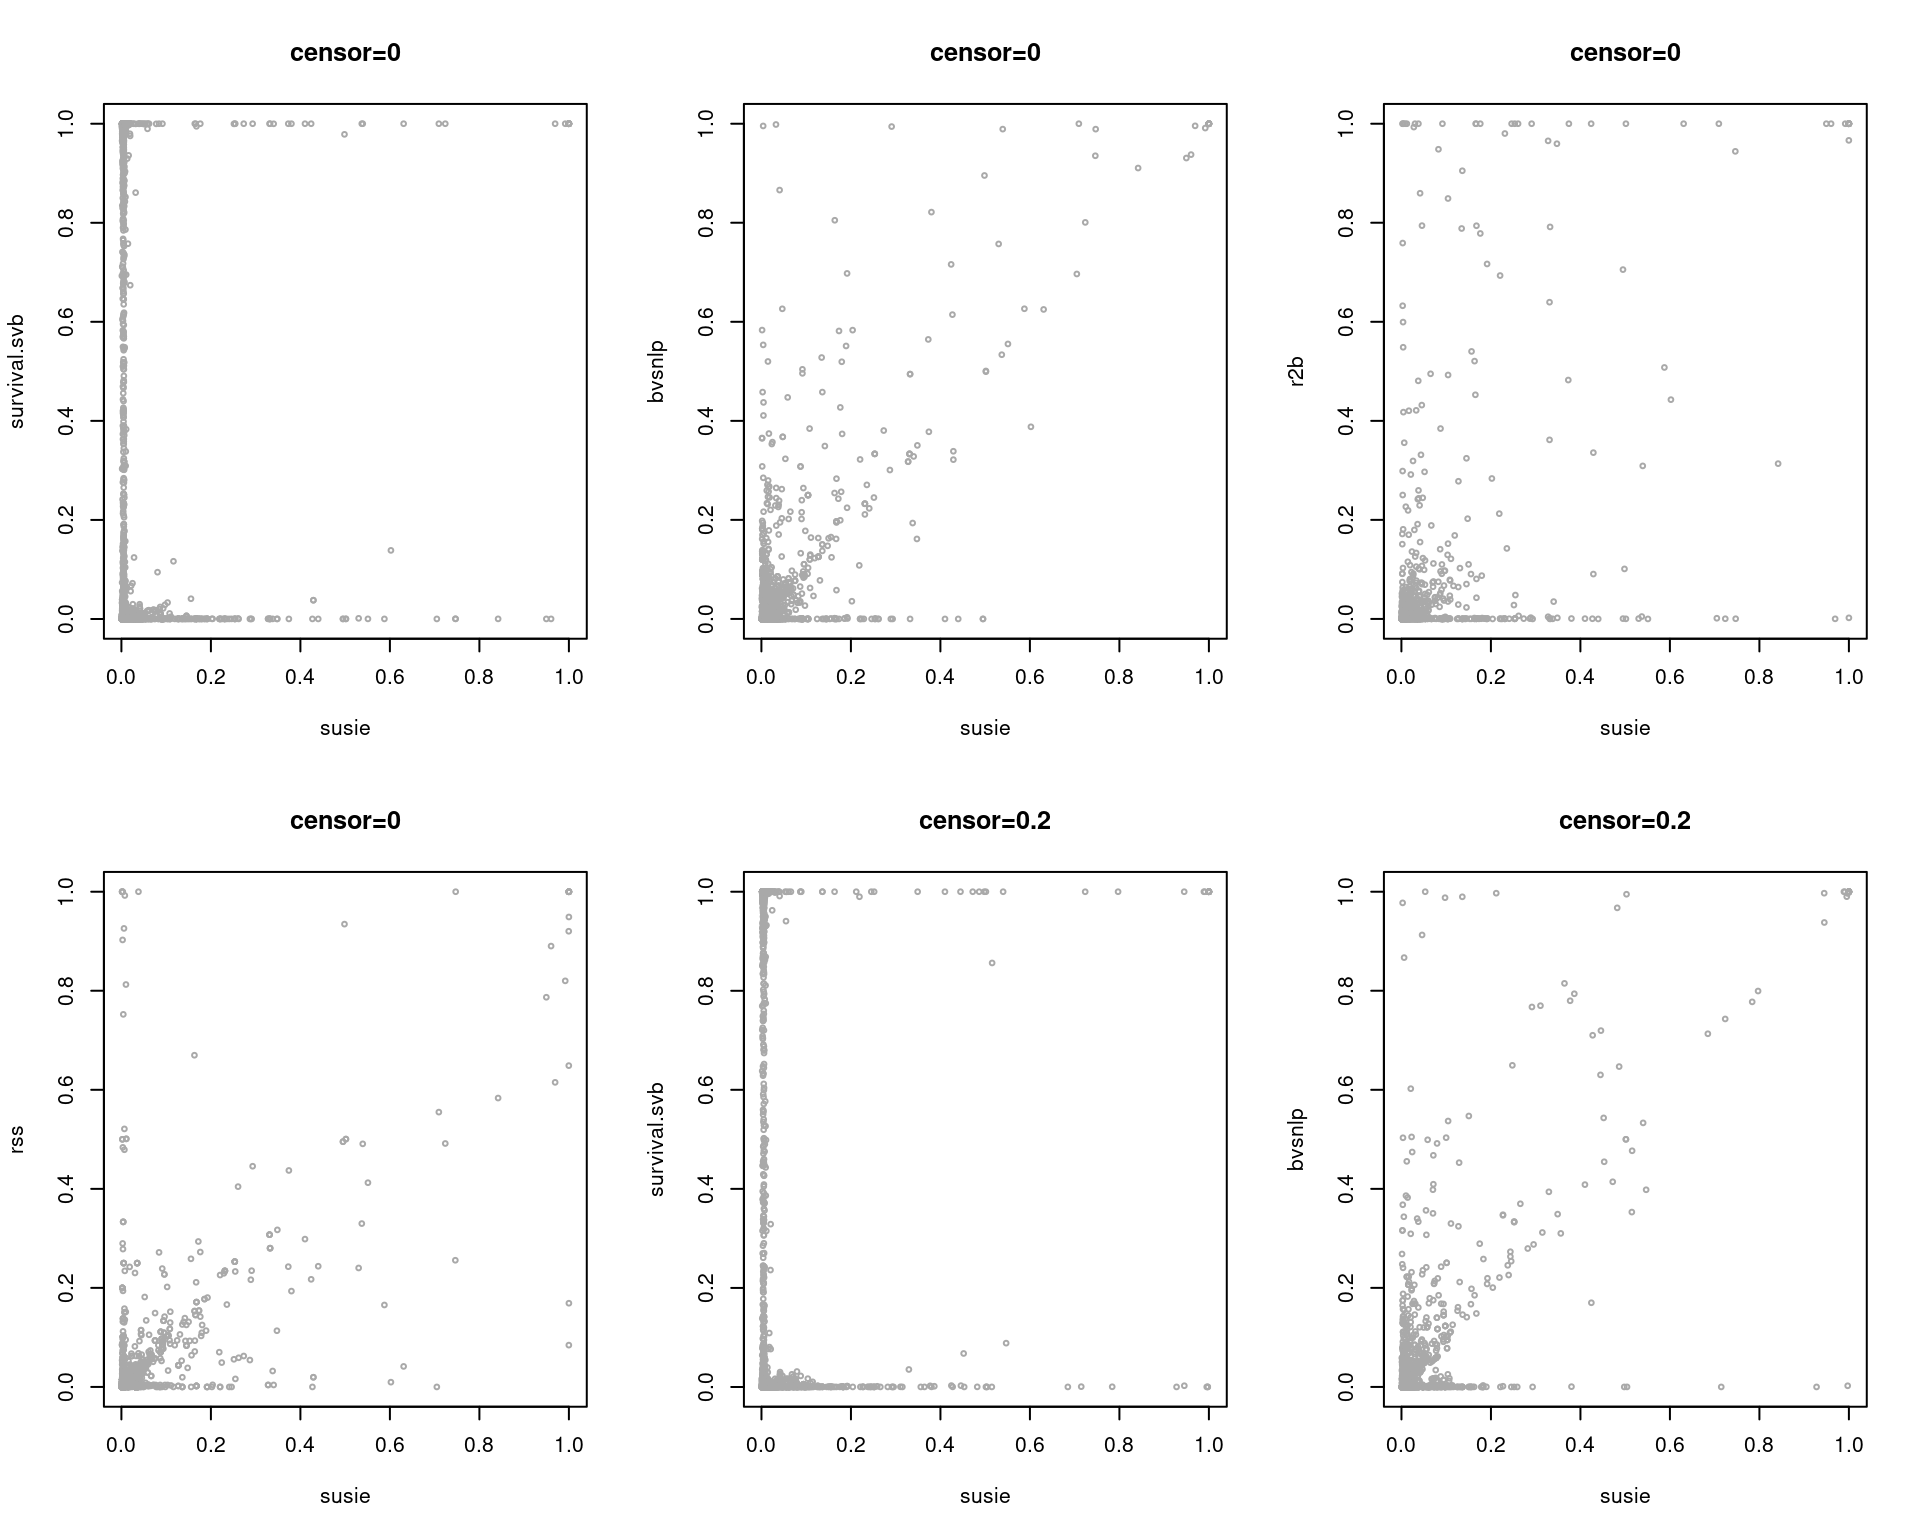
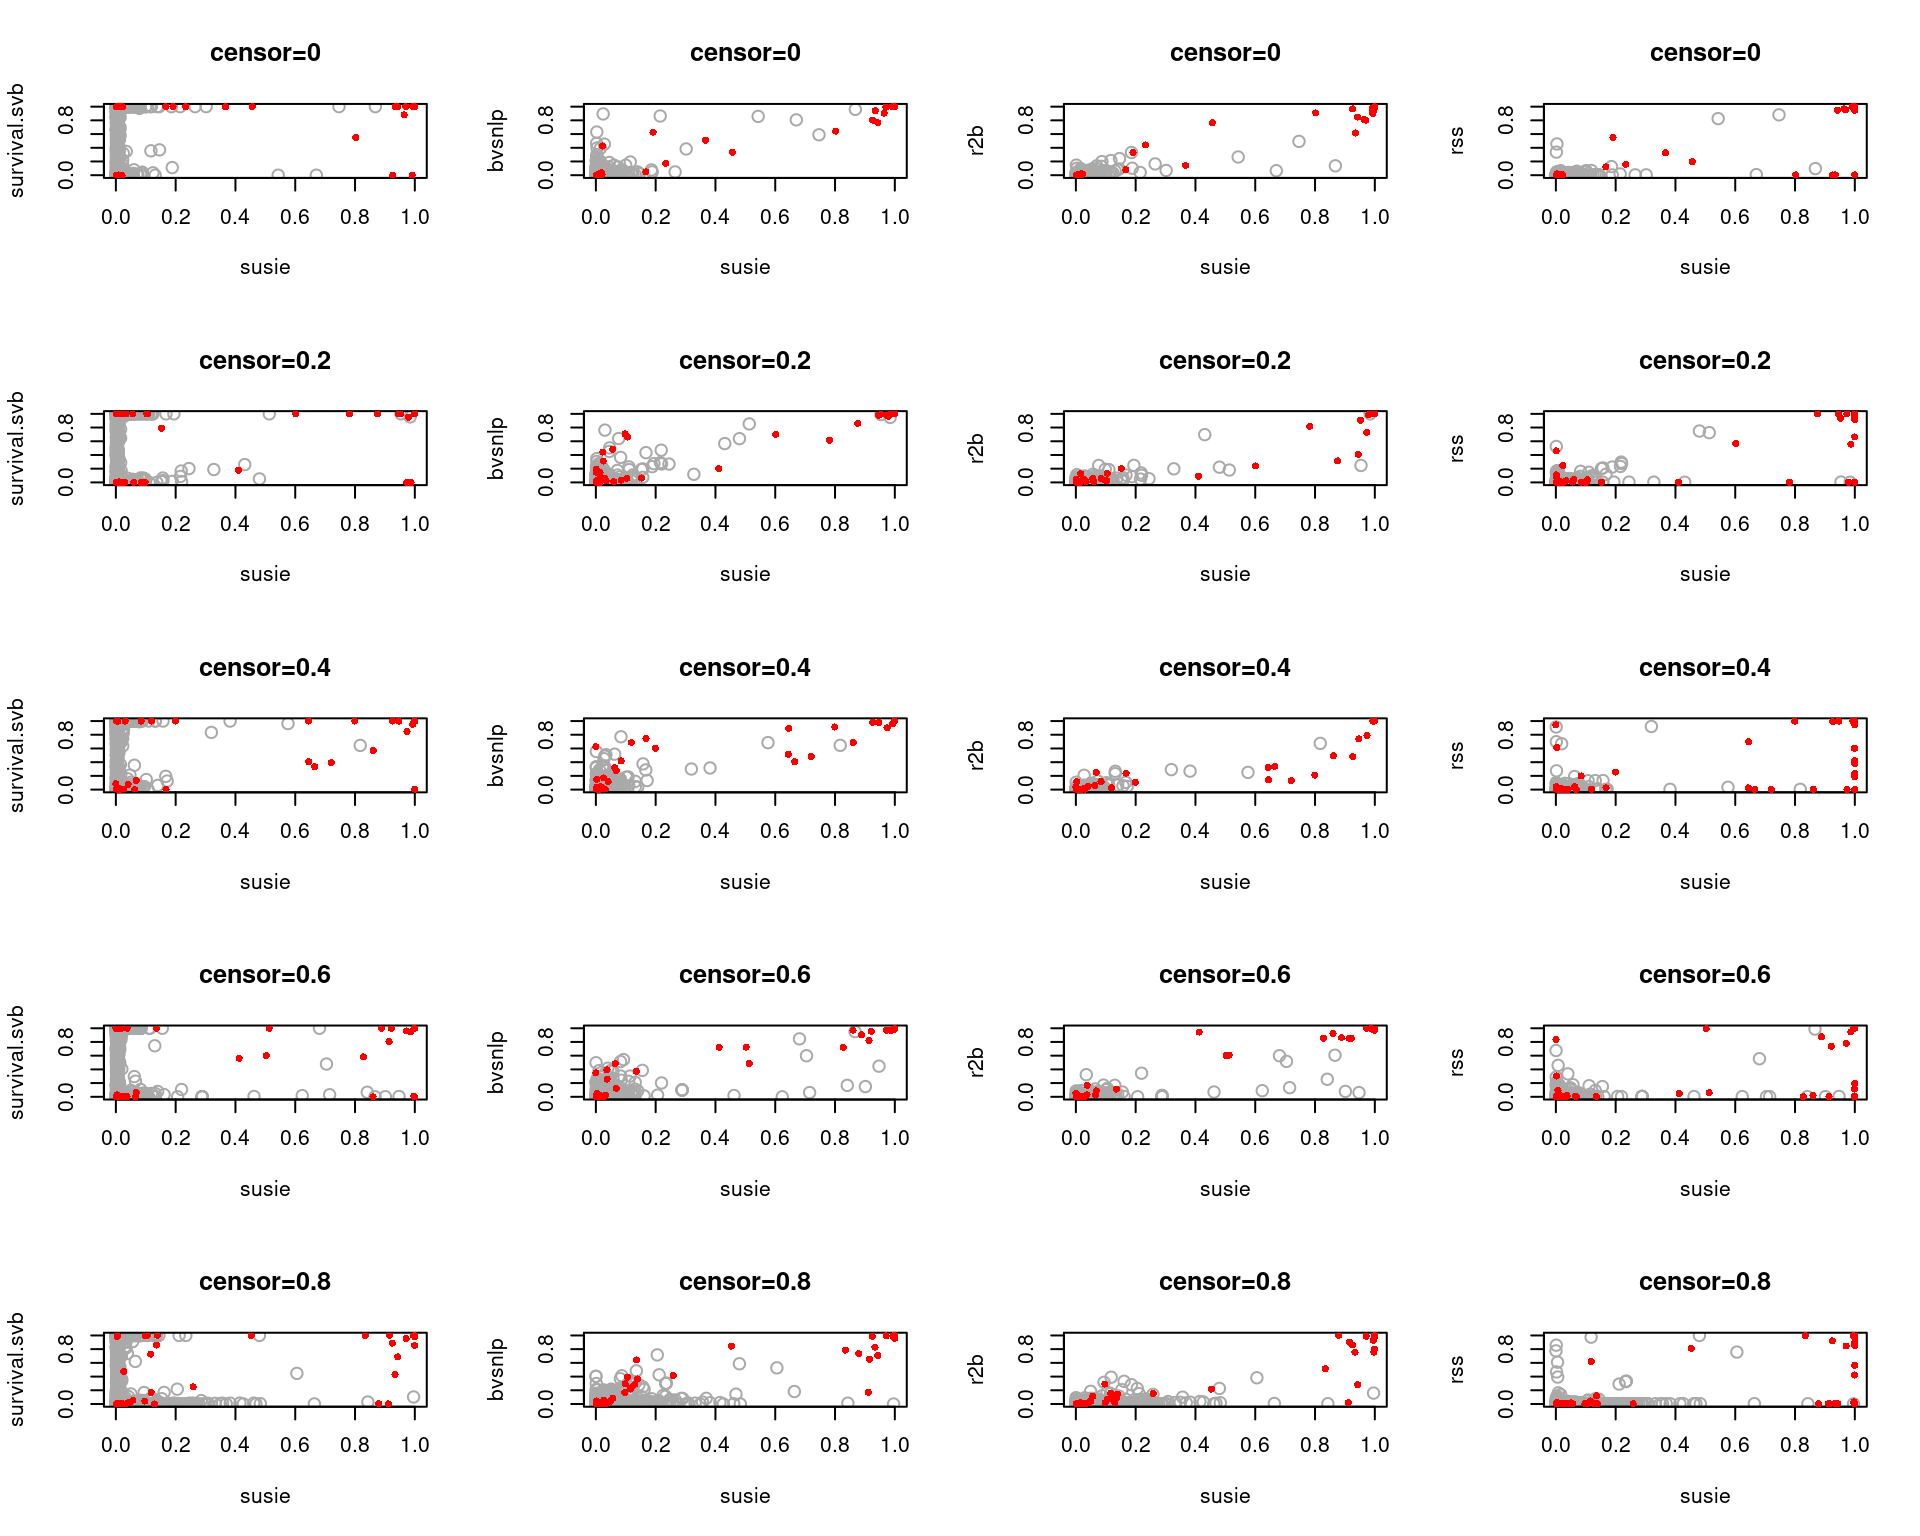
Build site.

diff --git a/docs/compare_pip_10iter.html b/docs/compare_pip_10iter.html
@@ -523,15 +523,15 @@ project makes it easier to run your code on other machines.</p>
 <div class="panel panel-default">
 <div class="panel-heading">
 <p class="panel-title">
-<a data-toggle="collapse" data-parent="#workflowr-checks" href="#strongRepositoryversionstrongahrefhttpsgithubcomyunqiyang0215survivalsusietreebc79c3ec9b6312e86af19f7f07d9d7723a5b4529targetblankbc79c3ea">
+<a data-toggle="collapse" data-parent="#workflowr-checks" href="#strongRepositoryversionstrongahrefhttpsgithubcomyunqiyang0215survivalsusietreeb4e8c1fa735e91bc84b87e2744bee5aa58ba0877targetblankb4e8c1fa">
 <span class="glyphicon glyphicon-ok text-success"
 aria-hidden="true"></span> <strong>Repository version:</strong>
-<a href="https://github.com/yunqiyang0215/survival-susie/tree/bc79c3ec9b6312e86af19f7f07d9d7723a5b4529" target="_blank">bc79c3e</a>
+<a href="https://github.com/yunqiyang0215/survival-susie/tree/b4e8c1fa735e91bc84b87e2744bee5aa58ba0877" target="_blank">b4e8c1f</a>
 </a>
 </p>
 </div>
 <div
[2 lines of base64/hex data omitted]
 class="panel-collapse collapse">
 <div class="panel-body">
 <p>
@@ -541,7 +541,7 @@ reproducibility.
 </p>
 <p>
 The results in this page were generated with repository version
-<a href="https://github.com/yunqiyang0215/survival-susie/tree/bc79c3ec9b6312e86af19f7f07d9d7723a5b4529" target="_blank">bc79c3e</a>.
+<a href="https://github.com/yunqiyang0215/survival-susie/tree/b4e8c1fa735e91bc84b87e2744bee5aa58ba0877" target="_blank">b4e8c1f</a>.
 See the <em>Past versions</em> tab to see a history of the changes made
 to the R Markdown and HTML files.
 </p>
@@ -605,6 +605,40 @@ Message
 </tr>
 </thead>
 <tbody>
+<tr>
+<td>
+Rmd
+</td>
+<td>
+<a href="https://github.com/yunqiyang0215/survival-susie/blob/b4e8c1fa735e91bc84b87e2744bee5aa58ba0877/analysis/compare_pip_10iter.Rmd" target="_blank">b4e8c1f</a>
+</td>
+<td>
+yunqi yang
+</td>
+<td>
+2024-03-11
+</td>
+<td>
+wflow_publish("analysis/compare_pip_10iter.Rmd")
+</td>
+</tr>
+<tr>
+<td>
+html
+</td>
+<td>
+<a href="https://rawcdn.githack.com/yunqiyang0215/survival-susie/04c45c7597ce6774040a0eef7158cfb37120fa7d/docs/compare_pip_10iter.html" target="_blank">04c45c7</a>
+</td>
+<td>
+yunqi yang
+</td>
+<td>
+2024-03-11
+</td>
+<td>
+Build site.
+</td>
+</tr>
 <tr>
 <td>
 Rmd
@@ -678,22 +712,22 @@ results, as capturing more effects.</p></li>
 <li><p>In other scenarios, results are more consistent across
 methods.</p></li>
 </ol>
-<pre class="r"><code>compare_pip &lt;- function(pip1, pip2, effect_indx, dat_indx, p){
-  is_effect = c()
-  for (i in dat_indx){
-    init = rep(0, p)
-    indx = effect_indx[[i]]
-    init[indx] = 1
-    is_effect = c(is_effect, init)
-  }
+<pre class="r"><code>compare_pip &lt;- function(pip1, pip2, is_effect){
   res = data.frame(cbind(pip1, pip2, is_effect))
-}</code></pre>
-<pre class="r"><code>plot_pip &lt;- function(res.pip, labs, main){
-  pch = ifelse(res.pip$is_effect == 1, 16, 1)
-  cex = ifelse(res.pip$is_effect == 1, 1, 0.5)
-  col = ifelse(res.pip$is_effect == 1, &quot;red&quot;, &quot;dark grey&quot;)
-  plot(res.pip$pip1, res.pip$pip2, col = col, pch = pch, cex = cex, 
-       xlab = labs[1], ylab = labs[2], main = main)
+  return(res)
+}
+
+
+plot_pip &lt;- function(res.pip, labs, main){
+  pch = 16
+  cex = ifelse(res.pip$is_effect == 1, 0.75, 1.2)
+  
+  # Plotting the grey circles first
+  grey_indices &lt;- res.pip$is_effect != 1
+  plot(res.pip$pip1[grey_indices], res.pip$pip2[grey_indices], col = &quot;dark grey&quot;, pch = 1, cex = cex[grey_indices], xlab = labs[1], ylab = labs[2], xlim = c(0, 1), ylim = c(0, 1), main = main)
+  
+  red_indices &lt;- res.pip$is_effect == 1
+  points(res.pip$pip1[red_indices], res.pip$pip2[red_indices], col = &quot;red&quot;, pch = pch, cex = cex[red_indices])
 }</code></pre>
 <pre class="r"><code>susie = readRDS(&quot;/project2/mstephens/yunqiyang/surv-susie/sim2024/sim_niter10/susie.rds&quot;)
 svb = readRDS(&quot;/project2/mstephens/yunqiyang/surv-susie/sim2024/sim_niter10/svb.rds&quot;)
@@ -705,7 +739,7 @@ rss = readRDS(&quot;/project2/mstephens/yunqiyang/surv-susie/sim2024/sim_niter10
 </div>
 <div id="use-the-real-correlation-of-snps" class="section level3">
 <h3>1. Use the real correlation of SNPs</h3>
-<pre class="r"><code>par(mfrow = c(2,3))
+<pre class="r"><code>par(mfrow = c(5,4))
 for (i in 1:length(censor_lvls)){
   indx = which(susie$simulate.cor_type == &quot;real&quot; &amp; susie$simulate.censor_lvl == censor_lvls[i])
   pip.susie = unlist(lapply(indx, function(x) susie$susie.pip[[x]]))
@@ -713,25 +747,28 @@ for (i in 1:length(censor_lvls)){
   pip.bvsnlp = unlist(lapply(indx, function(x) bvsnlp$bvsnlp.pip[[x]]))
   pip.r2b = unlist(lapply(indx, function(x) r2b$r2b.pip[[x]]))
   pip.rss = unlist(lapply(indx, function(x) rss$rss.pip[[x]]))
+  
+  is_effect = unlist(lapply(indx, function(x) susie$simulate.is_effect[[x]]))
 
-  res.pip = compare_pip(pip.susie, pip.svb, susie$simulate.effect_indx, dat_indx = indx, p =1e3)
+
+  res.pip = compare_pip(pip.susie, pip.svb, is_effect)
   plot_pip(res.pip, labs = c(&quot;susie&quot;, &quot;survival.svb&quot;), main = paste0(&quot;censor=&quot;,censor_lvls[i]))
   
-  res.pip = compare_pip(pip.susie, pip.bvsnlp, susie$simulate.effect_indx, dat_indx = indx, p =1e3)
+  res.pip = compare_pip(pip.susie, pip.bvsnlp, is_effect)
   plot_pip(res.pip, labs = c(&quot;susie&quot;, &quot;bvsnlp&quot;), main = paste0(&quot;censor=&quot;,censor_lvls[i]))
   
-  res.pip = compare_pip(pip.susie, pip.r2b, susie$simulate.effect_indx, dat_indx = indx, p =1e3)
+  res.pip = compare_pip(pip.susie, pip.r2b, is_effect)
   plot_pip(res.pip, labs = c(&quot;susie&quot;, &quot;r2b&quot;), main = paste0(&quot;censor=&quot;,censor_lvls[i]))
   
-  res.pip = compare_pip(pip.susie, pip.rss, susie$simulate.effect_indx, dat_indx = indx, p =1e3)
+  res.pip = compare_pip(pip.susie, pip.rss, is_effect)
   plot_pip(res.pip, labs = c(&quot;susie&quot;, &quot;rss&quot;), main = paste0(&quot;censor=&quot;,censor_lvls[i]))
   
 }</code></pre>
-<p><img src="figure/compare_pip_10iter.Rmd/unnamed-chunk-5-1.png" width="960" style="display: block; margin: auto;" /><img src="figure/compare_pip_10iter.Rmd/unnamed-chunk-5-2.png" width="960" style="display: block; margin: auto;" /><img src="figure/compare_pip_10iter.Rmd/unnamed-chunk-5-3.png" width="960" style="display: block; margin: auto;" /><img src="figure/compare_pip_10iter.Rmd/unnamed-chunk-5-4.png" width="960" style="display: block; margin: auto;" /></p>
+<p><img src="figure/compare_pip_10iter.Rmd/unnamed-chunk-4-1.png" width="960" style="display: block; margin: auto;" /></p>
 </div>
 <div id="near-independent-snps" class="section level3">
 <h3>2. Near independent SNPs</h3>
-<pre class="r"><code>par(mfrow = c(2,3))
+<pre class="r"><code>par(mfrow = c(5,4))
 for (i in 1:length(censor_lvls)){
   indx = which(susie$simulate.cor_type == &quot;independent&quot; &amp; susie$simulate.censor_lvl == censor_lvls[i])
   pip.susie = unlist(lapply(indx, function(x) susie$susie.pip[[x]]))
@@ -739,21 +776,61 @@ for (i in 1:length(censor_lvls)){
   pip.bvsnlp = unlist(lapply(indx, function(x) bvsnlp$bvsnlp.pip[[x]]))
   pip.r2b = unlist(lapply(indx, function(x) r2b$r2b.pip[[x]]))
   pip.rss = unlist(lapply(indx, function(x) rss$rss.pip[[x]]))
+  
+  is_effect = unlist(lapply(indx, function(x) susie$simulate.is_effect[[x]]))
 
-  res.pip = compare_pip(pip.susie, pip.svb, susie$simulate.effect_indx, dat_indx = indx, p =1e3)
+
+  res.pip = compare_pip(pip.susie, pip.svb, is_effect)
   plot_pip(res.pip, labs = c(&quot;susie&quot;, &quot;survival.svb&quot;), main = paste0(&quot;censor=&quot;,censor_lvls[i]))
   
-  res.pip = compare_pip(pip.susie, pip.bvsnlp, susie$simulate.effect_indx, dat_indx = indx, p =1e3)
+  res.pip = compare_pip(pip.susie, pip.bvsnlp, is_effect)
   plot_pip(res.pip, labs = c(&quot;susie&quot;, &quot;bvsnlp&quot;), main = paste0(&quot;censor=&quot;,censor_lvls[i]))
   
-  res.pip = compare_pip(pip.susie, pip.r2b, susie$simulate.effect_indx, dat_indx = indx, p =1e3)
+  res.pip = compare_pip(pip.susie, pip.r2b, is_effect)
   plot_pip(res.pip, labs = c(&quot;susie&quot;, &quot;r2b&quot;), main = paste0(&quot;censor=&quot;,censor_lvls[i]))
   
-  res.pip = compare_pip(pip.susie, pip.rss, susie$simulate.effect_indx, dat_indx = indx, p =1e3)
+  res.pip = compare_pip(pip.susie, pip.rss, is_effect)
   plot_pip(res.pip, labs = c(&quot;susie&quot;, &quot;rss&quot;), main = paste0(&quot;censor=&quot;,censor_lvls[i]))
   
 }</code></pre>
-<p><img src="figure/compare_pip_10iter.Rmd/unnamed-chunk-6-1.png" width="960" style="display: block; margin: auto;" /><img src="figure/compare_pip_10iter.Rmd/unnamed-chunk-6-2.png" width="960" style="display: block; margin: auto;" /><img src="figure/compare_pip_10iter.Rmd/unnamed-chunk-6-3.png" width="960" style="display: block; margin: auto;" /><img src="figure/compare_pip_10iter.Rmd/unnamed-chunk-6-4.png" width="960" style="display: block; margin: auto;" /></p>
+<p><img src="figure/compare_pip_10iter.Rmd/unnamed-chunk-5-1.png" width="960" style="display: block; margin: auto;" /></p>
+<p>
+<button type="button" class="btn btn-default btn-xs btn-workflowr btn-workflowr-fig" data-toggle="collapse" data-target="#fig-unnamed-chunk-5-1">
+Past versions of unnamed-chunk-5-1.png
+</button>
+</p>
+<div id="fig-unnamed-chunk-5-1" class="collapse">
+<div class="table-responsive">
+<table class="table table-condensed table-hover">
+<thead>
+<tr>
+<th>
+Version
+</th>
+<th>
+Author
+</th>
+<th>
+Date
+</th>
+</tr>
+</thead>
+<tbody>
+<tr>
+<td>
+<a href="https://github.com/yunqiyang0215/survival-susie/blob/04c45c7597ce6774040a0eef7158cfb37120fa7d/docs/figure/compare_pip_10iter.Rmd/unnamed-chunk-5-1.png" target="_blank">04c45c7</a>
+</td>
+<td>
+yunqi yang
+</td>
+<td>
+2024-03-11
+</td>
+</tr>
+</tbody>
+</table>
+</div>
+</div>
 <br>
 <p>
 <button type="button" class="btn btn-default btn-workflowr btn-workflowr-sessioninfo" data-toggle="collapse" data-target="#workflowr-sessioninfo" style="display: block;">
